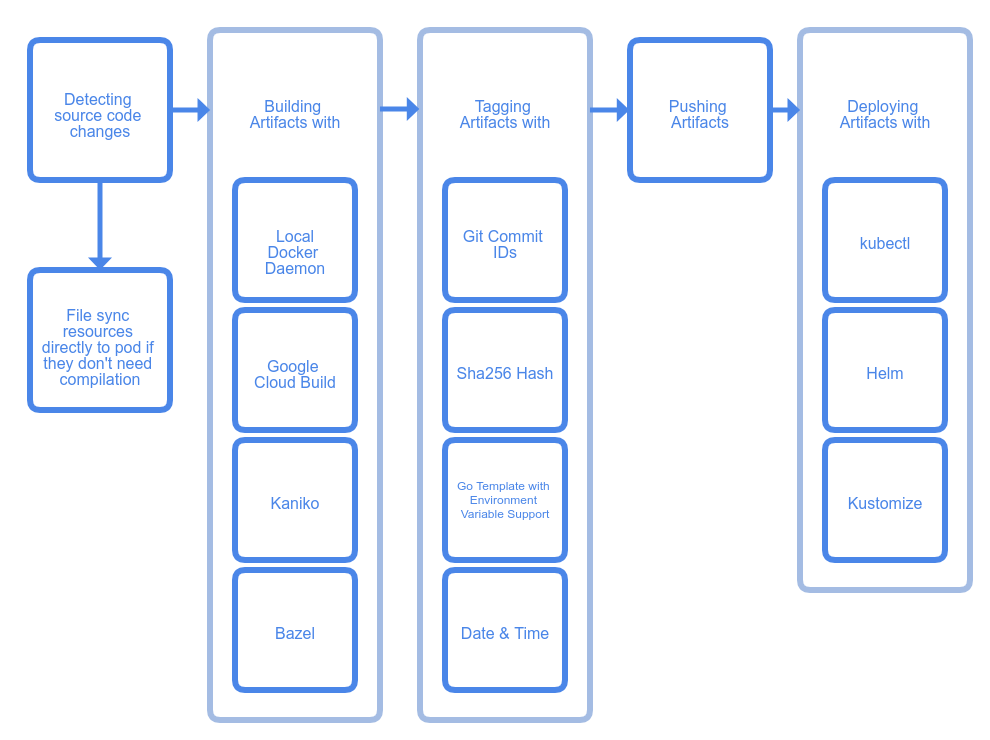
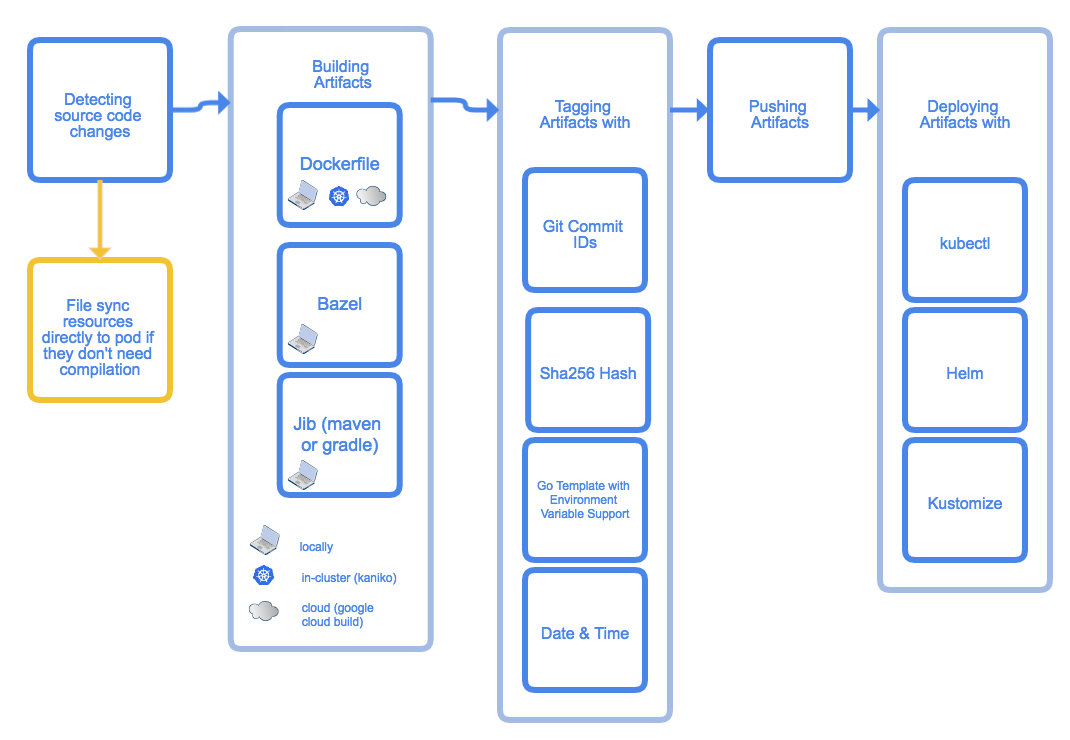
better architecture image

diff --git a/docs/layouts/shortcodes/skaffold-version.html b/docs/layouts/shortcodes/skaffold-version.html
@@ -1,1 +1,1 @@
-<code>{{ $.Page.Site.Params.skaffold_version }}</code>
+{{ $.Page.Site.Params.skaffold_version }}

diff --git a/docs/content/en/docs/concepts/_index.md b/docs/content/en/docs/concepts/_index.md
@@ -20,11 +20,12 @@ read the configuration file from the current directory.
 
 | Component  | Description |
 | ---------- | ------------|
-| API Version (`apiVersion`)  | The Skaffold API version you would like to use. The current API version is {{< skaffold-version >}}. |
-| Kind (`kind`)  |  The Skaffold configuration file has the kind `Config`.  |
-| Build Configuration (`build`)  |  Specifies how Skaffold should build artifacts. You have control over what tool Skaffold can use, how Skaffold tags artifacts and how Skaffold pushes artifacts. Skaffold supports using local Docker daemon, Google Cloud Build, Kaniko, or Bazel to build artifacts. See [Using Builders](/docs/how-tos/builders) and [Using Taggers](/docs/how-tos/taggers) for more information. |
-| Deploy Configuration (`deploy`) |  Specifies how Skaffold should deploy artifacts. Skaffold supports using `kubectl`, Helm, or kustomize to deploy artifacts.See [Using Deployers](/docs/how-tos/deployers) for more information. |
-|Profiles (`profiles`)|  Profile is a set of settings that, when activated, overrides the current configuration. You can use Profile to override the `build` and the`deploy`> section. |
+| `apiVersion`)  | The Skaffold API version you would like to use. The current API version is {{< skaffold-version >}}. |
+| `kind`  |  The Skaffold configuration file has the kind `Config`.  |
+| `build`  |  Specifies how Skaffold should build artifacts. You have control over what tool Skaffold can use, how Skaffold tags artifacts and how Skaffold pushes artifacts. Skaffold supports using local Docker daemon, Google Cloud Build, Kaniko, or Bazel to build artifacts. See [Using Builders](/docs/how-tos/builders) and [Using Taggers](/docs/how-tos/taggers) for more information. |
+| `test` |  Specifies how Skaffold should test artifacts. Skaffold supports [container-structure-tests](https://github.com/GoogleContainerTools/container-structure-test) to test built artifacts.See [Using testers](/docs/how-tos/testers) for more information. |
+| `deploy` |  Specifies how Skaffold should deploy artifacts. Skaffold supports using `kubectl`, Helm, or kustomize to deploy artifacts.See [Using Deployers](/docs/how-tos/deployers) for more information. |
+| `profiles`|  Profile is a set of settings that, when activated, overrides the current configuration. You can use Profile to override the `build` and the`deploy`> section. |
 
 You can learn more about the syntax of `skaffold.yaml` at
 [`skaffold.yaml References`](/docs/references/config).
@@ -47,8 +48,6 @@ will not push artifacts to a remote repository.
 
 ## Image repository handling 
 
-{{% todo 1327 %}}
-
 Skaffold allows for automatically rewriting image names to your repository.
 This way you can grab a skaffold project and just `skaffold run` it to deploy to your cluster.  
 The way to achieve this is the `default-repo` functionality: 
@@ -62,47 +61,44 @@ The way to achieve this is the `default-repo` functionality:
         SKAFFOLD_DEFAULT_REPO=<myrepo> skaffold dev  
 
 1. Via skaffold's global config           
+        
+        skaffold config set default-repo <myrepo>
 
-If there is no default image repository set, there is no automated image name rewriting. 
+If skaffold doesn't find `default-repo`, there is no automated image name rewriting. 
 
-The following image name rewriting strategies are designed to be *conflict-free*:  
+The image name rewriting strategies are designed to be *conflict-free*: 
+the full image name is rewritten on top of the default-repo so similar image names don't collide in the base namespace (e.g.: repo1/example and repo2/example would collide in the target_namespace/example without this)
 
-* if there are multiple users using the same repo, they won't overwrite each others images.
-* the full namespace of the image is rewritten on top of the base so similar image names don't collide in the base namespace (e.g.: repo1/example and repo2/example would collide in the target_namespace/example without this)
+Automated image name rewriting strategies are determined based on the default-repo and the original image repository: 
 
-Automated image name rewriting strategies are determined based on the target repository: 
-
-* Target: gcr.io
-  * **strategy**: 		concat unless prefix matches
+* default-repo does not contain gcr.io
+  * **strategy**: 		escape & concat & truncate to 256
+  
+    ```
+     original image: 	gcr.io/k8s-skaffold/skaffold-example1
+     default-repo:      aws_account_id.dkr.ecr.region.amazonaws.com
+     rewritten image:   aws_account_id.dkr.ecr.region.amazonaws.com/gcr_io_k8s-skaffold_skaffold-example1
+    ```
+* default-repo contains "gcr.io" (special case - as GCR allows for infinite deep image repo names)
+  * **strategy**: concat unless prefix matches
   * **example1**: prefix doesn't match:
     
     ````
-      example base: 	gcr.io/k8s-skaffold/skaffold-example1
-      example target: 	gcr.io/myproject/myuser
-      example result:
-      gcr.io/myproject/myuser/gcr.io/k8s-skaffold/skaffold-example1
+      original image: 	gcr.io/k8s-skaffold/skaffold-example1
+      default-repo: 	gcr.io/myproject/myimage
+      rewritten image:  gcr.io/myproject/gcr.io/k8s-skaffold/skaffold-example1
     ````	
   * **example2**: prefix matches:
     
     ```
-      example base: 	gcr.io/k8s-skaffold/skaffold-example1
-      example target: 	gcr.io/k8s-skaffold/myuser
-      example result:
-      gcr.io/k8s-skaffold/myuser/skaffold-example1	
+      original image: 	gcr.io/k8s-skaffold/skaffold-example1
+      default-repo: 	gcr.io/k8s-skaffold
+      rewritten image:  gcr.io/k8s-skaffold/skaffold-example1	
     ```
-* Target: not gcr.io
-  * **strategy**: 		escape & concat & truncate to 256
-  
-    ```
-     example base: 	gcr.io/k8s-skaffold/skaffold-example1
-     example target: 	aws_account_id.dkr.ecr.region.amazonaws.com
-     example result:  aws_account_id.dkr.ecr.region.amazonaws.com/gcr_io_k8s-skaffold_skaffold-example1
-    ```
-
 
 ## Architecture
 
-Skaffold features a pluggable architecture:
+Skaffold has is designed with pluggability in mind:
 
 ![architecture](/images/architecture.png)
 
@@ -114,6 +110,7 @@ provides built-in support for the following tools:
   * Google Cloud Build
   * Kaniko
   * Bazel
+  * Jib Maven and Jib Gradle
 * Deploy 
   * Kubernetes Command-Line Interface (`kubectl`)
   * Helm

diff --git a/docs/content/en/docs/how-tos/deployers/_index.md b/docs/content/en/docs/how-tos/deployers/_index.md
@@ -2,7 +2,7 @@
 ---
 title: "Using deployers"
 linkTitle: "Using deployers"
-weight: 50
+weight: 20
 ---
 
 This page discusses how to set up Skaffold to use the tool of your choice
@@ -147,13 +147,13 @@ The following `deploy` section, for example, instructs Skaffold to deploy
 artifacts using kustomize:
 
 ```yaml
-apiVersion: skaffold/v1alpha2
+apiVersion: {{< skaffold-version >}}
    kind: Config
    deploy:
      kustomize:
         kustomizePath: "."
 # The deploy section above is equal to
-# apiVersion: skaffold/v1alpha2
+# apiVersion: {{< skaffold-version >}}
 #    kind: Config
 #    deploy:
 #      kustomize: {}

diff --git a/docs/content/en/docs/_index.md b/docs/content/en/docs/_index.md
@@ -65,11 +65,11 @@ Skaffold supports the following tools:
 
 {{% tabs %}}
 {{% tab "IMAGE BUILDERS" %}}
-* Dockerfile to Local Docker Daemon
-* Dockerfile to Registry using Kaniko
-* Dockerfile to Registry using Google Cloud Build
-* Bazel to Local Docker Daemon or Registry 
-* Jib via Maven/Gradle to Local Docker Daemon or Registry 
+* Dockerfile locally
+* Dockerfile in-cluster (kaniko)
+* Dockerfile on cloud (Google Cloud Build)
+* Bazel locally
+* Jib Maven/Gradle locally
 {{% /tab %}}
 
 {{% tab "DEPLOYERS" %}}

diff --git a/docs/content/en/docs/how-tos/portforward/_index.md b/docs/content/en/docs/how-tos/portforward/_index.md
@@ -2,7 +2,7 @@
 ---
 title: "Using port forwarding"
 linkTitle: "Using port forwarding"
-weight: 46
+weight: 50
 ---
 
 This page discusses how to set up Skaffold to setup file sync for files that don't require compilation.

diff --git a/docs/content/en/docs/how-tos/testers/_index.md b/docs/content/en/docs/how-tos/testers/_index.md
@@ -1,0 +1,10 @@
+
+---
+title: "Using testers"
+linkTitle: "Using testers"
+weight: 80
+---
+
+This page discusses how to set up Skaffold to run container structure tests after building an artifact.
+
+{{% todo 1076 %}} 

diff --git a/docs/content/en/docs/how-tos/filesync/_index.md b/docs/content/en/docs/how-tos/filesync/_index.md
@@ -2,7 +2,7 @@
 ---
 title: "Using file sync"
 linkTitle: "Using file sync"
-weight: 45
+weight: 40
 ---
 
 This page discusses how to set up Skaffold to setup file sync for files that don't require compilation.

diff --git a/docs/content/en/docs/how-tos/builders/_index.md b/docs/content/en/docs/how-tos/builders/_index.md
@@ -2,7 +2,7 @@
 ---
 title: "Using builders"
 linkTitle: "Using builders"
-weight: 40
+weight: 10
 ---
 
 This page discusses how to set up Skaffold to use the tool of your choice

diff --git a/docs/content/en/docs/how-tos/taggers/_index.md b/docs/content/en/docs/how-tos/taggers/_index.md
@@ -2,7 +2,7 @@
 ---
 title: "Using taggers"
 linkTitle: "Using taggers"
-weight: 60
+weight: 30
 ---
 
 This page discusses how to set up Skaffold to tag artifacts as you see fit.
